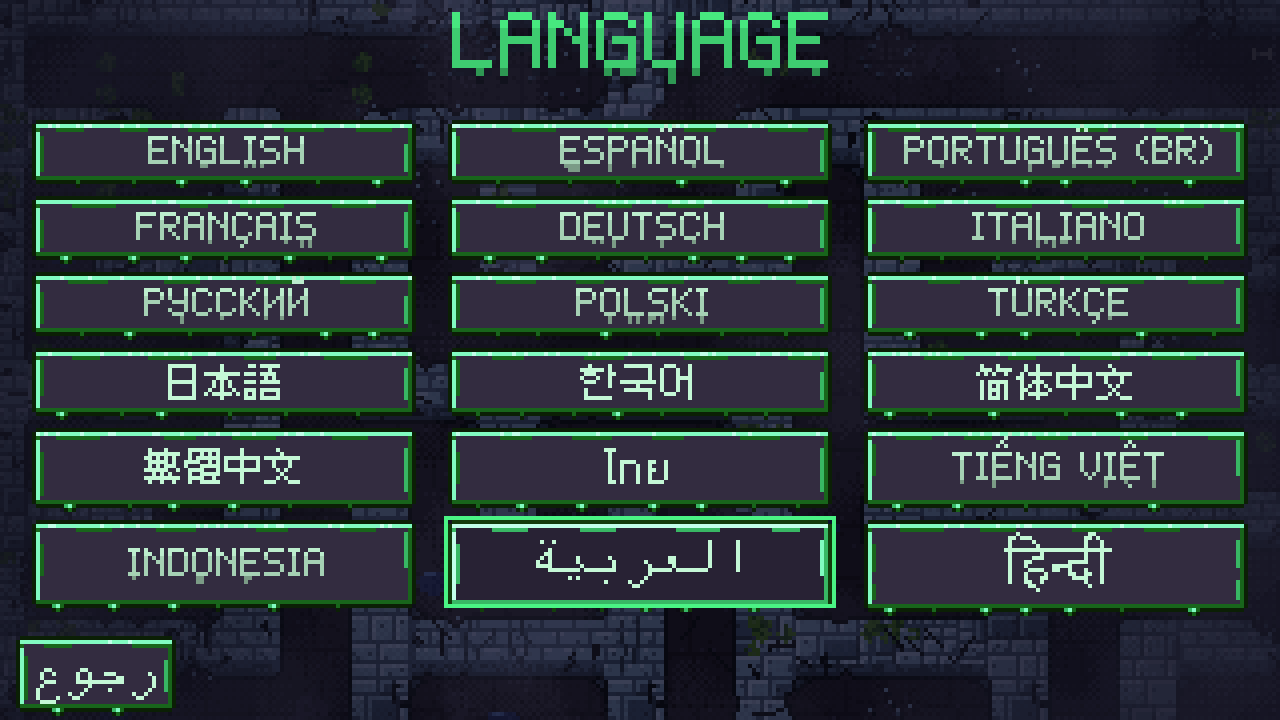
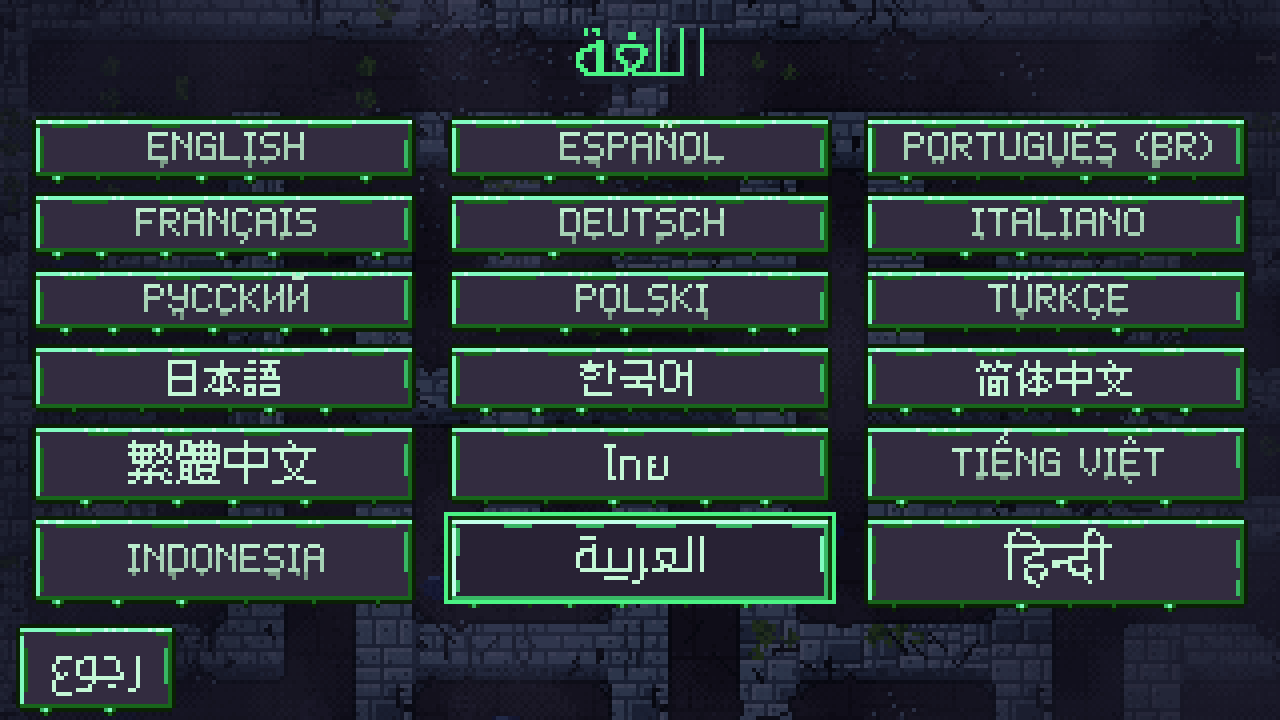
i18n: Arabic on Noto Kufi Arabic 12 px (GSUB shaping, letters join; metrics fitted to the ink), joining test, LANGUAGE shots recaptured

diff --git a/tools/i18n_subset_fonts.py b/tools/i18n_subset_fonts.py
@@ -13,8 +13,7 @@ the font yet. tests/test_i18n_glyphs.gd fails (listing the characters) when that
 What goes into each subset: every character of the msgstr texts of the locales the font serves (NFC),
 the native language names (Language.LOCALES in scripts/language.gd: the LANGUAGE screen shows them all,
 whatever the current language), and a safe base set per script (ASCII, the script's whole Unicode block
-for Thai / Arabic / Devanagari incl. Arabic presentation forms, which HarfBuzz uses to join Unifont's
-letters; CJK punctuation, kana for ja, full-width forms). Layout features are kept (Thai / Devanagari
+for Thai / Arabic / Devanagari; CJK punctuation, kana for ja, full-width forms). Layout features are kept (Thai / Devanagari
 shaping), hinting is dropped (Godot draws them with hinting off), output is WOFF2.
 
 Sources: downloaded once from the official releases (pinned version + sha256), cached outside the
@@ -62,10 +61,11 @@ SOURCES = {
[1 lines of base64/hex data omitted]
         "version": "Noto Sans Devanagari (google/fonts @ 2bc5d43), variable, instanced to wght 400 / wdth 100",
     },
-    "unifont": {
-        "url": "https://unifoundry.com/pub/unifont/unifont-18.0.01/font-builds/unifont-18.0.01.otf",
[1 lines of base64/hex data omitted]
-        "version": "GNU Unifont 18.0.01 OTF (unifoundry.com, the official release; OFL-1.1 of the dual license)",
+    "noto_kufi": {
+        "url": "https://raw.githubusercontent.com/google/fonts/eb4f2fde9aa730c58ba547d2def669066b6ad87e/"
+               "ofl/notokufiarabic/NotoKufiArabic%5Bwght%5D.ttf",
[1 lines of base64/hex data omitted]
+        "version": "Noto Kufi Arabic (google/fonts @ eb4f2fd), variable, instanced to wght 400",
     },
 }
 
@@ -78,9 +78,14 @@ ASCII = ranges((0x20, 0x7E))
 CJK_BASE = ASCII + ranges((0x3000, 0x303F), (0xFF01, 0xFF5E), (0x2018, 0x201D), (0x2026, 0x2026), (0x00B7, 0x00B7))
 KANA = ranges((0x3040, 0x30FF))
 
+## Arabic letters, harakat, digits and punctuation (not the whole block: its Quranic marks reach far
+## above the letters and would set the line box, see FIT_VMETRICS).
+ARABIC_BASE = ranges((0x060C, 0x060C), (0x061B, 0x061B), (0x061F, 0x061F), (0x0621, 0x0652), (0x0660, 0x066D),
+                     (0x0670, 0x0670), (0x200B, 0x200F), (0x25CC, 0x25CC))
+
 ## Every output font: (path under assets/fonts, source, member in the source zip, locales whose
 ## translations it covers, base characters, family name). LAYOUT_SCRIPTS keeps only that script's
-## OpenType layout tables: a font that advertises another script (Unifont lists Thai) would be picked
+## OpenType layout tables: a font that advertises another script (Unifont, the old Arabic stand-in, listed Thai) would be picked
 ## by Godot's fallback for that script's marks and draw nothing.
 OUTPUTS = [
     ("cjk/slime_cjk_zh_cn.woff2", "fusion", "fusion-pixel-10px-proportional-zh_hans.ttf", ["zh_CN"], CJK_BASE,
@@ -97,16 +102,43 @@ OUTPUTS = [
      "SlimeTime Thai"),
     ("devanagari/slime_devanagari.woff2", "noto_deva", None, ["hi"],
      ASCII + ranges((0x0900, 0x097F), (0x200B, 0x200D), (0x25CC, 0x25CC), (0x20B9, 0x20B9)), "SlimeTime Devanagari"),
-    ("arabic/slime_arabic.woff2", "unifont", None, ["ar"],
-     ASCII + ranges((0x0600, 0x06FF), (0xFB50, 0xFDFF), (0xFE70, 0xFEFF), (0x200B, 0x200F)), "SlimeTime Arabic"),
+    ("arabic/slime_arabic.woff2", "noto_kufi", None, ["ar"],
+     ASCII + ARABIC_BASE, "SlimeTime Arabic"),
 ]
 
 
 LAYOUT_SCRIPTS = {
     "noto_thai": ["thai", "DFLT", "latn"],
     "noto_deva": ["deva", "dev2", "DFLT", "latn"],
-    "unifont": ["arab", "DFLT", "latn"],
+    "noto_kufi": ["arab", "DFLT", "latn"],
 }
+
+
+## Sources whose vertical metrics are cut down to the ink of the glyphs actually kept. Noto Kufi Arabic's
+## ascender / descender (1282 / -615 per 1000) make room for stacked Quranic marks: drawn at 12 px that is
+## a 24 px line box for 13 px of letters. The subset keeps none of those marks, so its hhea / typo / win
+## metrics become the subset's own glyph bounds (every kept glyph, ligatures and harakat included, so
+## nothing draws outside the line box). Godot uses them for every line holding an Arabic glyph.
+FIT_VMETRICS = {"noto_kufi"}
+
+
+def fit_vmetrics(font) -> tuple[int, int]:
+    """Sets the font's ascender / descender to its glyphs' ink bounds; returns them (font units)."""
+    from fontTools.pens.boundsPen import BoundsPen
+    glyphs = font.getGlyphSet()
+    top, bottom = 0, 0
+    for name in font.getGlyphOrder():
+        pen = BoundsPen(glyphs)
+        glyphs[name].draw(pen)
+        if pen.bounds:
+            bottom = min(bottom, pen.bounds[1])
+            top = max(top, pen.bounds[3])
+    top, bottom = int(round(top)), int(round(bottom))
+    hhea, os2 = font["hhea"], font["OS/2"]
+    hhea.ascent, hhea.descent, hhea.lineGap = top, bottom, 0
+    os2.sTypoAscender, os2.sTypoDescender, os2.sTypoLineGap = top, bottom, 0
+    os2.usWinAscent, os2.usWinDescent = top, -bottom
+    return top, bottom
 
 
 def fetch(source: str, cache: Path) -> bytes:
@@ -174,7 +206,8 @@ def build(cache: Path, check_only: bool) -> int:
             data = zips[source].read(member)
         font = TTFont(io.BytesIO(data))
         if "fvar" in font:
-            font = instancer.instantiateVariableFont(font, {"wght": 400, "wdth": 100})
+            axes = {axis.axisTag for axis in font["fvar"].axes}
+            font = instancer.instantiateVariableFont(font, {k: v for k, v in {"wght": 400, "wdth": 100}.items() if k in axes})
         cmap = font.getBestCmap()
         chars = wanted(locales, base)
         needed = set()
@@ -204,6 +237,9 @@ def build(cache: Path, check_only: bool) -> int:
         subsetter = subset.Subsetter(options)
         subsetter.populate(unicodes=[ord(c) for c in chars])
         subsetter.subset(font)
+        if source in FIT_VMETRICS:
+            top, bottom = fit_vmetrics(font)
+            print(f"{rel}: vertical metrics fitted to the ink: ascender {top}, descender {bottom}")
         name = font["name"]
         for record in list(name.names):
             if record.nameID in (1, 4, 16, 21):

diff --git a/docs/i18n/fonts.md b/docs/i18n/fonts.md
@@ -9,15 +9,16 @@ Advisor research, 2026-10-16. Scope: which fonts each D15 language needs, how Go
 What shipped from this research (code: `tools/make_font.py`, `tools/i18n_subset_fonts.py`, the font section of `scripts/language.gd`, `assets/shaders/text_drips.gdshader`, test `tests/test_i18n_glyphs.gd`):
 
 - **Slimy font extended, English untouched.** `pixel.png` / `pixel_big.png` (page 0, the 86 original glyphs) are byte-identical; the new glyphs live on a second one-row page, `pixel_ext.png` (14 px = 5 accent rows + 7 body + 2 below; `pixel_big_ext.png` 28 px). 359 codepoints per font: every Latin letter of es / pt_BR / fr / de / it / pl / tr / vi (67 Vietnamese capitals incl. stacks, Ơ Ư Đ), Ł Æ Œ ẞ, İ, 21 new Cyrillic shapes (А В Е К М Н О Р С Т Х reuse the Latin glyphs), « » „ ‚ “ ” ‘ ’ … – — № ¿ ¡ º ª · °, no-break / narrow / thin / zero-width spaces; lowercase codepoints share the capital's glyph (ı → I). Accents are composed from the base letter + mark bitmaps via NFD and drawn with `yoffset=-5`, so `lineHeight=7 / base=7` stay and no layout moves; marks draw above the line box (labels don't clip). The drip shader also recognizes the 14 / 28 px page; marks below the baseline (Ç Ą Ş, Ц Щ, Vietnamese dot below) are drawn in the body shade, which the shader keeps, and no drip grows under them. `make_font.py` keeps an unchanged PNG's old bytes (zlib builds differ between machines).
-- **Fallbacks** (`assets/fonts/<script>/`, WOFF2 subsets renamed "SlimeTime ..." as the OFL asks of modified fonts; license + `SOURCE-*.txt` next to each): Fusion Pixel 10 px proportional 2026.10.16 (zh_hans for zh_CN, ja, ko; drawn at 10, titles 20 = exact 2x), **Fusion Pixel 12 px proportional zh_tw for zh_TW** (drawn at 12, titles 24; see below), Noto Sans Thai 11 (titles 16), Noto Sans Devanagari 14 (titles 18), **GNU Unifont 18.0.01 16 px for Arabic (stand-in)**. Import: antialiasing none, hinting none, subpixel off, no system fallback, oversampling 1. `Language` gives each a `fixed_size` copy (`FIXED_SIZE_SCALE_INTEGER_ONLY`), so it draws at its exact integer size whatever size the label asks for. Web weight of all seven subsets: **about 98 KB** today (CJK about 5-8 KB each with only the base set + language names; Devanagari 47 KB, Thai 14 KB, Arabic 14 KB); CJK grows by roughly 26-42 KB per locale once translated (table 4.4).
+- **Fallbacks** (`assets/fonts/<script>/`, WOFF2 subsets renamed "SlimeTime ..." as the OFL asks of modified fonts; license + `SOURCE-*.txt` next to each): Fusion Pixel 10 px proportional 2026.10.16 (zh_hans for zh_CN, ja, ko; drawn at 10, titles 20 = exact 2x), **Fusion Pixel 12 px proportional zh_tw for zh_TW** (drawn at 12, titles 24; see below), Noto Sans Thai 11 (titles 16), Noto Sans Devanagari 14 (titles 18), **Noto Kufi Arabic 12 (titles 16)** (replaced the Unifont stand-in 2026-10-17, see the Arabic bullet). Import: antialiasing none, hinting none, subpixel off, no system fallback, oversampling 1. `Language` gives each a `fixed_size` copy (`FIXED_SIZE_SCALE_INTEGER_ONLY`), so it draws at its exact integer size whatever size the label asks for. Web weight of all seven subsets after the translations: **about 156 KB** (zh_CN 22 KB, zh_TW 27 KB, ja 18 KB, ko 12 KB, Devanagari 47 KB, Thai 14 KB, Arabic 14 KB).
 - **Only the current locale's fallback is installed.** Godot's `Font.get_height` / `get_ascent` include every fallback, so installing all of them pushed every English label down (measured: Devanagari's 19 px line). So pixel.fnt / pixel_big.fnt / the tabular copy get the current locale's script font only (none for en and the Latin / Cyrillic locales: English with the gate on renders pixel-identical too). Text in another script on the same screen (the LANGUAGE screen's names) uses `Language.native_font(code)`, a FontVariation of the slimy font with that script's fallback. `Language` keeps the fonts referenced, or a freed pixel_big.fnt would come back without its fallback.
-- **Subset layout scripts** are limited to the font's own script (Unifont advertises Thai in its GSUB; Godot would then pick it for Thai marks).
-- **Metrics** (`Language.metrics(code)`, measured with the real fonts and checked by the glyph test): latin (en, id) = today's UIKit numbers; accented (es pt_BR fr de it pl tr ru): +3 rows above, pitch 12, button 15; vi: +5 above, pitch 14, button 17; cjk (zh_CN, ja, ko): line 14, pitch 15, button 16, title line 28; zh_TW: line 16, pitch 17, button 18, title line 32; th: line 17 / 18 / 19, title 25; hi: 19 / 20 / 21, title 25; ar: 16 / 17 / 18. Titles over 20 px (cjk, th, hi) don't fit `TITLE_Y`'s 20 px box: chunk G.
+- **Subset layout scripts** are limited to the font's own script (Unifont, the old Arabic stand-in, advertised Thai in its GSUB; Godot would then pick it for Thai marks).
+- **Arabic (2026-10-17): Noto Kufi Arabic**, google/fonts @ eb4f2fd (`ofl/notokufiarabic`, OFL-1.1, `arabic/OFL.txt` is that folder's license), variable instanced to wght 400. The Unifont stand-in had no `arab` GSUB and Godot drew every letter in its isolated form (the presentation-form fallback seen in uharfbuzz evidently does not happen in Godot 4.7.2: captures showed isolated forms), so العربية / رجوع showed unjoined. Kufi has a full GSUB (init / medi / fina, lam-alef, separate dot glyphs), so the Advanced text server joins the letters; drawn 1-bit like Thai / Devanagari (antialiasing none, hinting none, subpixel off). Sizes compared on `--write-movie` captures of the LANGUAGE screen at 10-14 px: 10 merges the dots of ي / ة, 11 is cramped, **12** has distinct dots and clean joins (13-14 only get heavier); titles at 16 (18 is fine too, 20+ outgrows the title row). Kufi's own vertical metrics (1282 / -615 per 1000, room for stacked Quranic marks) gave a 24 px line at 12 px, so the subset keeps letters, harakat, digits and punctuation only (no Quranic marks) and `tools/i18n_subset_fonts.py` sets its ascender / descender to the kept glyphs' ink (1055 / -448): line 19, button 21 (Devanagari's), title line 25. `tests/test_i18n_glyphs.gd` shapes العربية, رجوع and اللغة and checks that they use contextual glyphs no isolated letter uses. A 12 px pixel-drawn Arabic (bitmapfont, open item 1) would still look closer to the slimy font.
+- **Metrics** (`Language.metrics(code)`, measured with the real fonts and checked by the glyph test): latin (en, id) = today's UIKit numbers; accented (es pt_BR fr de it pl tr ru): +3 rows above, pitch 12, button 15; vi: +5 above, pitch 14, button 17; cjk (zh_CN, ja, ko): line 14, pitch 15, button 16, title line 28; zh_TW: line 16, pitch 17, button 18, title line 32; th: line 17 / 18 / 19, title 25; hi: 19 / 20 / 21, title 25; ar: 19 / 20 / 21, title 25. Titles over 20 px (cjk, th, hi) don't fit `TITLE_Y`'s 20 px box: chunk G.
 - **Turkish**: no runtime i -> İ remap. Translations are capitals (style guide), so tr.po writes İ / I; the glyph test fails on a lowercase i / ı in tr msgstr outside placeholders.
 - **ICU break data**: not enabled (`include_text_server_data` stays off, about 4 MB on web); Thai / zh / ja wrapping relies on U+200B (the font has it) or `AUTOWRAP_ARBITRARY`, as 4.3 recommends.
 - **zh_TW uses the 12 px build (2026-10-17).** The LANGUAGE screen drew 繁體中文 as what reads like 無罶中文. Not a subset gap and not an SC / TC mix-up: the zh_TW subset held the right codepoints from the right (zh_tw) file, but Fusion's 10 px build takes every dense Traditional character from BoutiqueBitmap9x9, whose 9x9 繁 (17 strokes) and 體 (23 strokes) collapse into those shapes (every 10 px language file even shares the same `u7E41.zh_hant` glyph). Fusion 12 px zh_tw (Cubic 11's Taiwan-standard glyphs, 11 px ink) draws them legibly, so the whole zh_TW locale now uses it (`Language.SCRIPT_FONTS` 12 / 24, metrics group `zh_TW`); license `cjk/LICENSES/cubic-11/OFL.txt`. `tests/test_language_screen.gd` checks that every native name on the LANGUAGE screen is drawn by the right font (slimy font alone for Latin / Cyrillic, that locale's own subset family at its size otherwise).
 - **Rerun** `python3 tools/i18n_subset_fonts.py` (needs `pip install fonttools brotli`) and re-import after every translation update; `--check` lists missing characters. Sources are pinned (URL + sha256) and cached in `~/.cache/slime-time-fonts`.
-- **Open items**: (1) the hajimehoshi/bitmapfont Arabic glyphs' OFL grant is only a README line, no license file with the glyph author's copyright: confirm with the authors before replacing the Unifont stand-in (12 px pixel Arabic would fit far better). (2) Fusion 10/12 Hangul inherits Galmuri's Nintendo-DS provenance note (2.1). (3) Arabic joining relies on Unifont's presentation forms (kept in the subset). (4) Thai / Devanagari are outline fonts drawn 1-bit: native-reader screenshot review still to do. (5) `goo_box.gd` seeds button goo from canvas item RIDs, so adding any texture (here page 1) changes the goo lumps on buttons; text pixels are identical (checked with the RID seed neutralized in a throwaway copy).
+- **Open items**: (1) the hajimehoshi/bitmapfont Arabic glyphs' OFL grant is only a README line, no license file with the glyph author's copyright: confirm with the authors before swapping it in for Noto Kufi Arabic (a 12 px pixel Arabic would match the slimy look better). (2) Fusion 10/12 Hangul inherits Galmuri's Nintendo-DS provenance note (2.1). (3) ~~Arabic joining relies on Unifont's presentation forms~~ resolved 2026-10-17: Unifont drew the letters unjoined in Godot; replaced by Noto Kufi Arabic (GSUB shaping, see above). (4) Thai / Devanagari are outline fonts drawn 1-bit: native-reader screenshot review still to do. (5) `goo_box.gd` seeds button goo from canvas item RIDs, so adding any texture (here page 1) changes the goo lumps on buttons; text pixels are identical (checked with the RID seed neutralized in a throwaway copy).
 
 ---
 

diff --git a/docs/i18n/plan.md b/docs/i18n/plan.md
@@ -209,7 +209,7 @@ unchanged PNG's old bytes), `tests/test_language_screen.gd`.
   one) and reloads the page when the language changed; BACK / Esc / B go to SETTINGS.
 - Open: the title key `language.title` is new, so `messages.pot` needs `tools/i18n_extract.py --merge` once
   the translators' files are in; the rest of SETTINGS (and BACK on every other screen) still overflows in
-  th / hi / ar (chunk G); the Arabic stand-in font draws the letters unjoined (fonts.md open item 3).
+  th / hi / ar (chunk G); the Arabic stand-in font drew the letters unjoined: fixed 2026-10-17 with Noto Kufi Arabic 12 px (fonts.md section 0).
 
 ## 7. Fonts and fallbacks **[fonts]**
 
